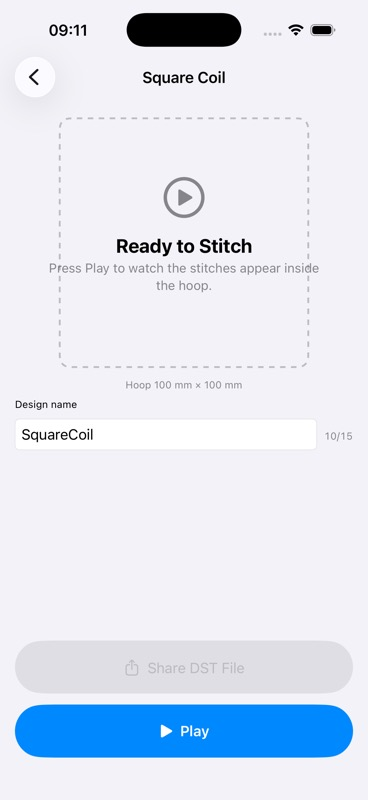
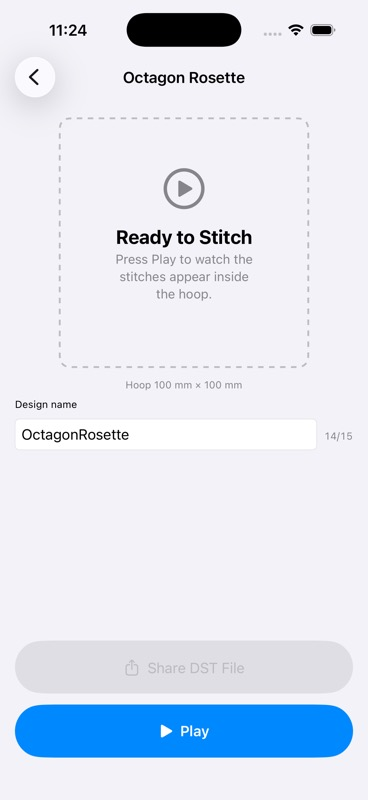
US-308: give the empty state's copy room from the dashed hoop
Sebastian: the description was cramped against the outline, and on a narrow
pane it ran past it.

The cause was structural rather than a missing padding value. The
ContentUnavailableView was a ZStack SIBLING of the dashed rectangle, so the
label was sized by the slot while the dashes were sized by the aspect-fitted
square. Those are the same width only when the slot is taller than it is
wide; anywhere else the label was wider than the border it appeared to sit
inside. Padding a sibling would have moved the text without ever relating it
to the dashes.

It is now an overlay on the rectangle, so the label is bounded by the frame
it is drawn inside and the 24 pt inset is measured from the dashes
themselves.

One ordering detail worth the comment it now carries: .accessibilityHidden
stays on the shape BEFORE the overlay. Applying it after would take the
ContentUnavailableView out of the accessibility tree with it -- and that view
is the entire content of this state.

Screenshot 01 retaken; the committed one showed the old cramped layout.

Also committing an InfoPlist.xcstrings entry Xcode's catalog extraction adds
on build (CFBundleName, state "new"). It regenerates on every build, so
leaving it uncommitted is permanent noise. Worth noting what it exposes,
though it is out of scope here: the app's bundle name is still the raw
target name, catrobat_embroidery_ios, which is what a user would see under
the icon. That wants a real display name before the Catrobat transfer.

diff --git a/catrobat_embroidery_ios/catrobat_embroidery_ios/StageView.swift b/catrobat_embroidery_ios/catrobat_embroidery_ios/StageView.swift
@@ -190,36 +190,52 @@ struct StageView<Renderer: StagePreviewRenderer>: View {
     /// coordinate, drawn but not exportable, and by US-308's own criteria that message
     /// belongs to export.
     private var emptyStage: some View {
-        ZStack {
-            RoundedRectangle(cornerRadius: 12)
-                .strokeBorder(.tertiary, style: StrokeStyle(lineWidth: 2, dash: [6, 6]))
-                // Keeps the hoop's own proportions, so the placeholder reads as a hoop
-                // rather than as an empty box the width of the pane — which is what it
-                // looked like on iPad when this was left to fill the slot. The ratio comes
-                // from the box rather than a literal `1` for the reason
-                // `StagePlaceholderView` gave: hard-coding it would let this view quietly
-                // disagree with `StageGeometry` if the stage ever stopped being square.
-                //
-                // The *drawn* state deliberately does not do this — there the transform
-                // owns fitting, and constraining the canvas would fight it.
-                .aspectRatio(
-                    StageGeometry.box.width / StageGeometry.box.height, contentMode: .fit
-                )
-                .accessibilityHidden(true)
-
-            if state == .notRun {
-                ContentUnavailableView(
-                    String(localized: .stageReadyTitle),
-                    systemImage: "play.circle",
-                    description: Text(.stageReadyDescription)
-                )
-            } else {
-                ContentUnavailableView(
-                    String(localized: .stageEmptyTitle),
-                    systemImage: "circle.dashed",
-                    description: Text(.stageEmptyDescription)
-                )
+        RoundedRectangle(cornerRadius: 12)
+            .strokeBorder(.tertiary, style: StrokeStyle(lineWidth: 2, dash: [6, 6]))
+            // Keeps the hoop's own proportions, so the placeholder reads as a hoop
+            // rather than as an empty box the width of the pane — which is what it
+            // looked like on iPad when this was left to fill the slot. The ratio comes
+            // from the box rather than a literal `1` for the reason
+            // `StagePlaceholderView` gave: hard-coding it would let this view quietly
+            // disagree with `StageGeometry` if the stage ever stopped being square.
+            //
+            // The *drawn* state deliberately does not do this — there the transform
+            // owns fitting, and constraining the canvas would fight it.
+            .aspectRatio(
+                StageGeometry.box.width / StageGeometry.box.height, contentMode: .fit
+            )
+            // **Before the overlay, so it hides the dashes and not the words.** Moving it
+            // after would take the `ContentUnavailableView` out of the accessibility tree
+            // with it, which is the whole content of this state.
+            .accessibilityHidden(true)
+            // **An overlay rather than a `ZStack` sibling**, which is what actually fixes
+            // the cramped text: as siblings the label was sized by the *slot* while the
+            // dashes were sized by the aspect-fitted square, so on a pane wider than it is
+            // tall the two had different widths and the description ran into — and past —
+            // the border. As an overlay the label is bounded by the frame it is drawn
+            // inside, so the inset below is measured from the dashes themselves.
+            .overlay {
+                unavailableView
+                    .padding(.horizontal, 24)
             }
+    }
+
+    /// Both empty states' content. Extracted only so `emptyStage` stays readable now that
+    /// the dashes carry an overlay.
+    @ViewBuilder
+    private var unavailableView: some View {
+        if state == .notRun {
+            ContentUnavailableView(
+                String(localized: .stageReadyTitle),
+                systemImage: "play.circle",
+                description: Text(.stageReadyDescription)
+            )
+        } else {
+            ContentUnavailableView(
+                String(localized: .stageEmptyTitle),
+                systemImage: "circle.dashed",
+                description: Text(.stageEmptyDescription)
+            )
         }
     }
 
